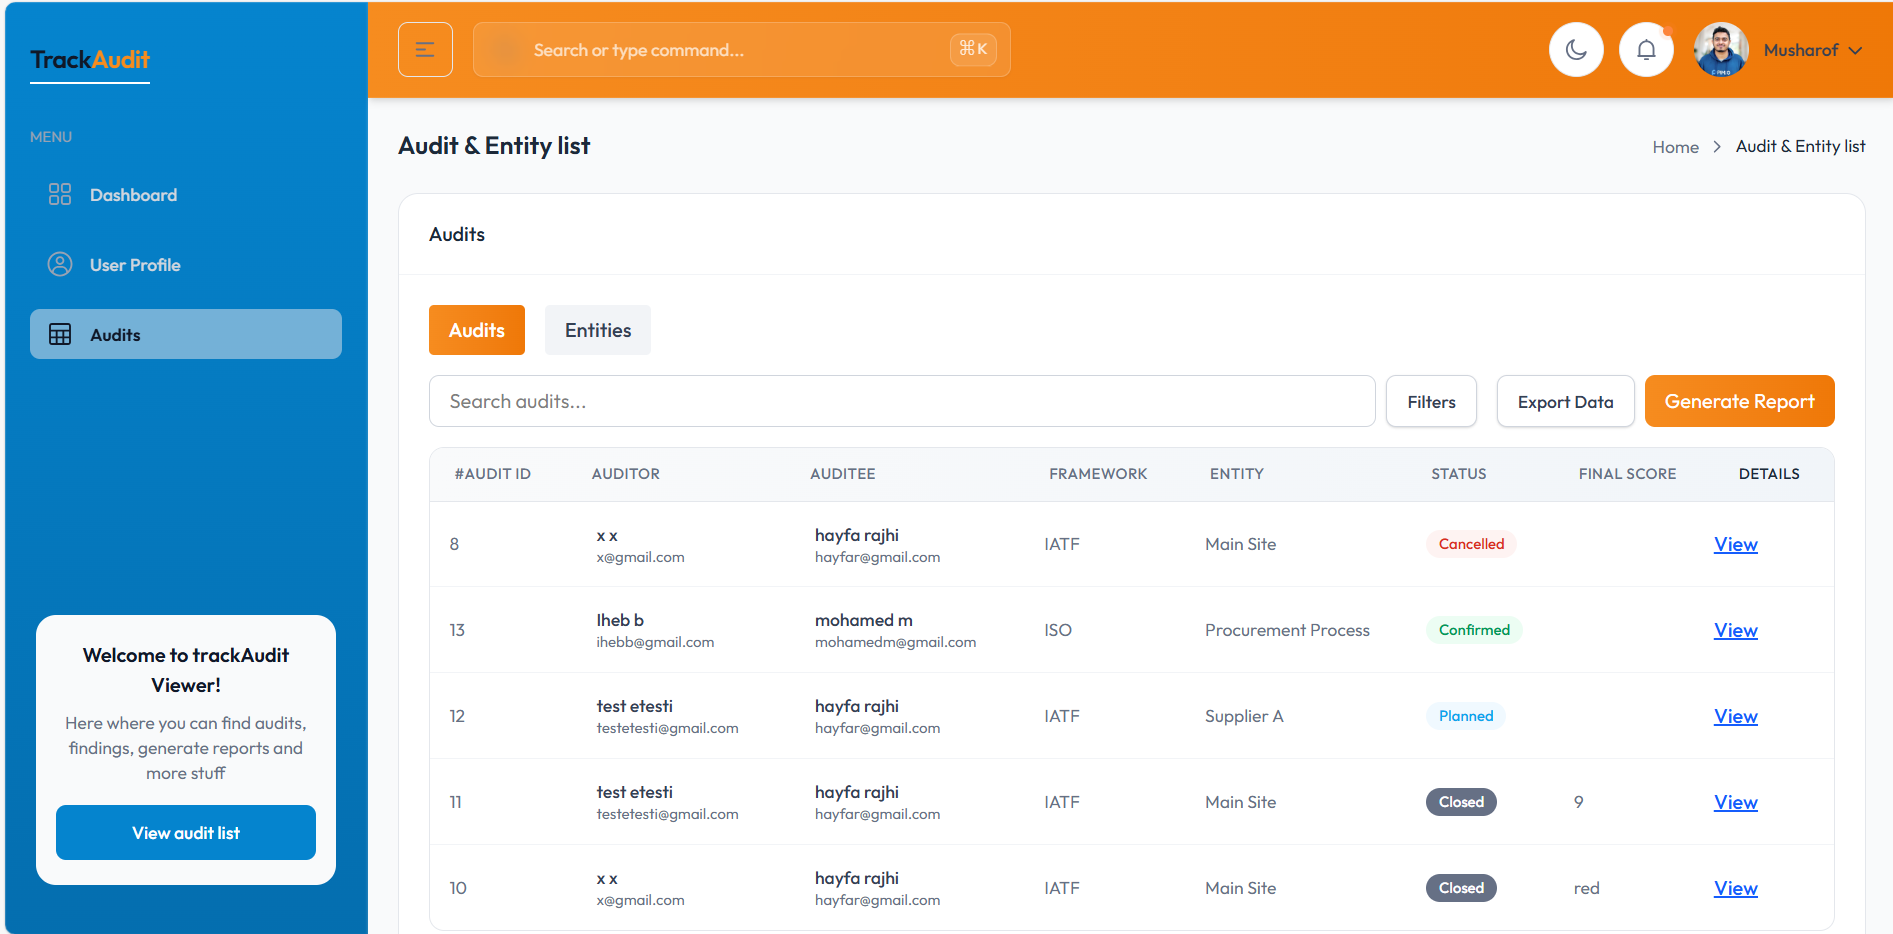
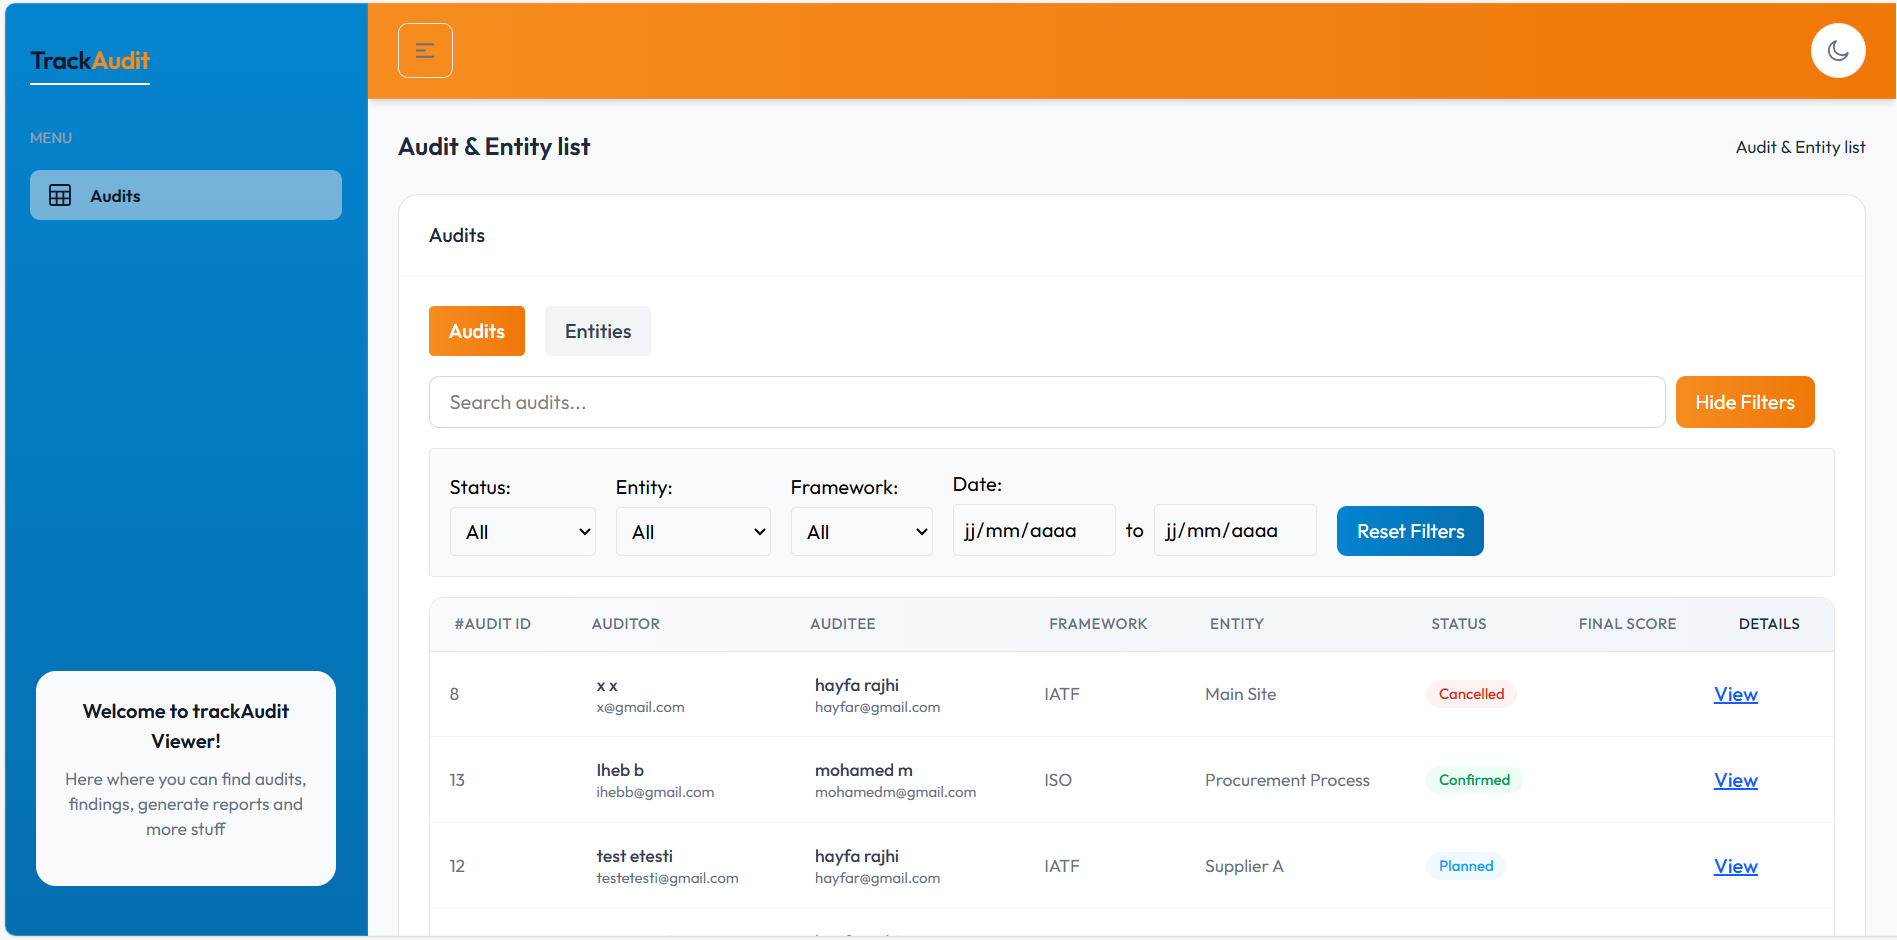
update ui to include only functional features

diff --git a/src/pages/Tables/BasicTables.tsx b/src/pages/Tables/BasicTables.tsx
@@ -125,11 +125,59 @@ export default function BasicTables() {
       return matchesSearch && matchesType && matchesParent;
     });
   }, [entities, entityFilters]);
+  //   // ---------- Export data as CSV ----------
+  //   const handleExport = () => {
+  //     const dataToExport =
+  //       activeTab === "audits" ? audits : filteredEntities;
+
+  //     if (!dataToExport || dataToExport.length === 0) {
+  //       alert("No data available to export.");
+  //       return;
+  //     }
+
+  //     // Get headers (keys of first object)
+  //     const headers = Object.keys(dataToExport[0]);
+
+  //     // Create CSV rows
+  //     const csvRows: string[] = [];
+  //     csvRows.push(headers.join(",")); // header row
+
+  //     for (const row of dataToExport) {
+  //       const rowRecord = row as unknown as Record<string, unknown>;
+  // const values = headers.map((header) =>
+  //   JSON.stringify(rowRecord[header] ?? "")
+  // );
+
+  //       csvRows.push(values.join(","));
+  //     }
+
+  //     // Generate CSV string
+  //     const csvContent = csvRows.join("\n");
+
+  //     // Add UTF-8 BOM for Excel compatibility
+  //     const csvWithBOM = "\uFEFF" + csvContent;
+
+  //     // Create a Blob and download
+  //     const blob = new Blob([csvWithBOM], { type: "text/csv;charset=utf-8;" });
+  //     const url = window.URL.createObjectURL(blob);
+  //     const link = document.createElement("a");
+
+  //     const timestamp = new Date().toISOString().split("T")[0];
+  //     const filename =
+  //       activeTab === "audits"
+  //         ? `audits_export_${timestamp}.csv`
+  //         : `entities_export_${timestamp}.csv`;
+
+  //     link.href = url;
+  //     link.setAttribute("download", filename);
+  //     link.click();
+  //     window.URL.revokeObjectURL(url);
+  //   };
 
   return (
     <>
       <PageMeta
-        title="Audit & Entity Tables | Admin Dashboard"
+        title="Audit & Entity Tables"
         description="List and filter audits and entities"
       />
       <PageBreadcrumb pageTitle="Audit & Entity list" />
@@ -165,9 +213,10 @@ export default function BasicTables() {
               />
 
               <button
-                className="inline-flex items-center gap-2 rounded-lg border border-gray-300 
-                bg-white px-4 py-2.5 text-sm font-medium text-gray-700 shadow-sm 
-                hover:bg-gray-50 dark:border-gray-700 dark:bg-gray-800 dark:text-gray-400"
+                // className="inline-flex items-center gap-2 rounded-lg border border-gray-300
+                // bg-white px-4 py-2.5 text-sm font-medium text-gray-700 shadow-sm
+                // hover:bg-gray-50 dark:border-gray-700 dark:bg-gray-800 dark:text-gray-400"
+                className="px-4 py-2 bg-gradient-to-r from-[#F68C1F] to-[#EF7807] text-white rounded-lg dark:from-[#B55A00] dark:to-[#8A4600]"
                 onClick={() => setShowFilters(!showFilters)}
               >
                 {showFilters ? "Hide Filters" : "Filters"}
@@ -175,12 +224,16 @@ export default function BasicTables() {
             </div>
 
             <div className="flex gap-2">
-              <button className="inline-flex items-center gap-2 rounded-lg border border-gray-300 bg-white px-4 py-2.5 text-sm font-medium text-gray-700 shadow-sm hover:bg-gray-50 dark:border-gray-700 dark:bg-gray-800 dark:text-gray-400">
+              {/* <button
+                // onClick={handleExport}
+                // className="inline-flex items-center gap-2 rounded-lg border border-gray-300 bg-white px-4 py-2.5 text-sm font-medium text-gray-700 shadow-sm hover:bg-gray-50 dark:border-gray-700 dark:bg-gray-800 dark:text-gray-400"
+                className="px-4 py-2 bg-gradient-to-r from-[#F68C1F] to-[#EF7807] text-white rounded-lg dark:from-[#B55A00] dark:to-[#8A4600]"
+              >
                 Export Data
-              </button>
-              <button className="px-4 py-2 bg-gradient-to-r from-[#F68C1F] to-[#EF7807] text-white rounded-lg dark:from-[#B55A00] dark:to-[#8A4600]">
+              </button> */}
+              {/* <button className="px-4 py-2 bg-gradient-to-r from-[#F68C1F] to-[#EF7807] text-white rounded-lg dark:from-[#B55A00] dark:to-[#8A4600]">
                 Generate Report
-              </button>
+              </button> */}
             </div>
           </div>
 

diff --git a/src/hooks/useAudits.ts b/src/hooks/useAudits.ts
@@ -82,21 +82,31 @@ export function useAudits(filters: AuditFilters) {
     }
 
     // Date range filter (based on sessions)
-    if (filters.dateFrom || filters.dateTo) {
-      result = result.filter((a) => {
-        if (!a.sessions || a.sessions.length === 0) return false;
+ if (filters.dateFrom || filters.dateTo) {
+  const fromDate = filters.dateFrom
+    ? new Date(`${filters.dateFrom}T00:00:00`) // start of day local
+    : null;
+  const toDate = filters.dateTo
+    ? new Date(`${filters.dateTo}T23:59:59`) // end of day local
+    : null;
 
-        const hasValidSession = a.sessions.some((session) => {
-          const start = new Date(session.start_time);
-          const from = filters.dateFrom ? new Date(filters.dateFrom) : null;
-          const to = filters.dateTo ? new Date(filters.dateTo) : null;
+  result = result.filter((audit) => {
+    if (!audit.sessions || audit.sessions.length === 0) return false;
 
-          return (!from || start >= from) && (!to || start <= to);
-        });
+    // Check if any session overlaps range
+    return audit.sessions.some((session) => {
+      const start = new Date(session.start_time);
+      const end = new Date(session.end_time);
 
-        return hasValidSession;
-      });
-    }
+      // Audit is included if any session overlaps the range
+      const startsAfterFrom = !fromDate || end >= fromDate;
+      const endsBeforeTo = !toDate || start <= toDate;
+
+      return startsAfterFrom && endsBeforeTo;
+    });
+  });
+}
+
 
     setFilteredAudits(result);
   }, [filters, allAudits]);

diff --git a/src/layout/AppHeader.tsx b/src/layout/AppHeader.tsx
@@ -117,7 +117,7 @@ const AppHeader: React.FC = () => {
               />
             </svg>
           </button>
-
+          {/* 
           <div className="hidden lg:block">
             <form>
               <div className="relative">
@@ -169,7 +169,7 @@ const AppHeader: React.FC = () => {
                 </button>
               </div>
             </form>
-          </div>
+          </div> */}
         </div>
         <div
           className={`${
@@ -180,11 +180,11 @@ const AppHeader: React.FC = () => {
             {/* <!-- Dark Mode Toggler --> */}
             <ThemeToggleButton />
             {/* <!-- Dark Mode Toggler --> */}
-            <NotificationDropdown />
+            {/* <NotificationDropdown /> */}
             {/* <!-- Notification Menu Area --> */}
           </div>
           {/* <!-- User Area --> */}
-          <UserDropdown />
+          {/* <UserDropdown /> */}
         </div>
       </div>
     </header>

diff --git a/src/layout/AppSidebar.tsx b/src/layout/AppSidebar.tsx
@@ -26,22 +26,22 @@ type NavItem = {
 };
 
 const navItems: NavItem[] = [
-  {
-    icon: <GridIcon />,
-    name: "Dashboard",
-    path: "/",
-    // subItems: [{ name: "Ecommerce", path: "/", pro: false }],
-  },
+  // {
+  //   icon: <GridIcon />,
+  //   name: "Dashboard",
+  //   path: "/",
+  //   // subItems: [{ name: "Ecommerce", path: "/", pro: false }],
+  // },
   // {
   //   icon: <CalenderIcon />,
   //   name: "Calendar",
   //   path: "/calendar",
   // },
-  {
-    icon: <UserCircleIcon />,
-    name: "User Profile",
-    path: "/profile",
-  },
+  // {
+  //   icon: <UserCircleIcon />,
+  //   name: "User Profile",
+  //   path: "/profile",
+  // },
   // {
   //   name: "Forms",
   //   icon: <ListIcon />,

diff --git a/src/components/common/PageBreadCrumb.tsx b/src/components/common/PageBreadCrumb.tsx
@@ -15,7 +15,7 @@ const PageBreadcrumb: React.FC<BreadcrumbProps> = ({ pageTitle }) => {
       </h2>
       <nav>
         <ol className="flex items-center gap-1.5">
-          <li>
+          {/* <li>
             <Link
               className="inline-flex items-center gap-1.5 text-sm text-gray-500 dark:text-gray-400"
               to="/"
@@ -38,7 +38,7 @@ const PageBreadcrumb: React.FC<BreadcrumbProps> = ({ pageTitle }) => {
                 />
               </svg>
             </Link>
-          </li>
+          </li> */}
           <li className="text-sm text-gray-800 dark:text-white/90">
             {pageTitle}
           </li>

diff --git a/src/layout/SidebarWidget.tsx b/src/layout/SidebarWidget.tsx
@@ -8,10 +8,9 @@ export default function SidebarWidget() {
         Welcome to trackAudit Viewer!
       </h3>
       <p className="mb-4 text-gray-500 text-theme-sm dark:text-gray-400">
-        Here where you can find audits, findings, generate reports and more
-        stuff
+        Here where you can find audits, findings
       </p>
-      <a
+      {/* <a
         href="/basic-tables"
         // target="_blank"
         rel="nofollow"
@@ -19,7 +18,7 @@ export default function SidebarWidget() {
         style={{ backgroundColor: "#0584CE" }}
       >
         View audit list
-      </a>
+      </a> */}
     </div>
   );
 }
